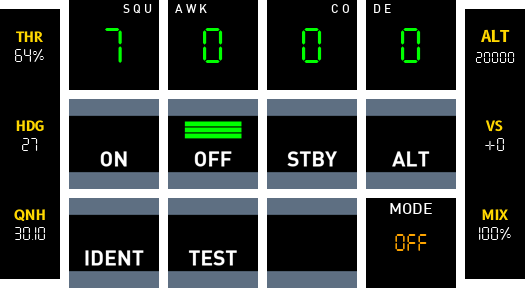
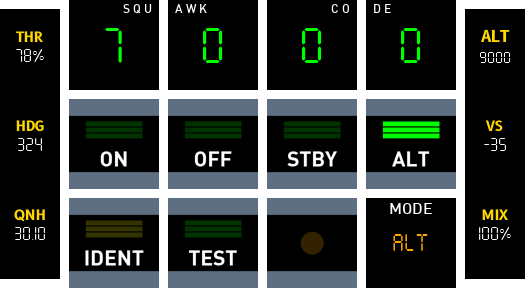
Lancair Evolution big documentation update

diff --git a/docs/decks/lancair-evolution.md b/docs/decks/lancair-evolution.md
@@ -12,37 +12,52 @@ icon: material/airplane
 ### Home
 ![](../assets/images/lancair-evolution/home.png){ :width="200" }
 
+Home page can be accessed via button e0 on the Loupedeck Live (button without a number).
+
 ### PFI
 ![](../assets/images/lancair-evolution/pfi.png){ :width="200" }
 
-Central to this page is data you would consider primary flight instruments.
-The **speed**, **bearing**, **altitude** and **vertical speed** fill the first row.
+**Primary Flight Instrument Page** displays speed (in knots), heading, altitude and vertical speed.
 
-The second row consists of engine data in a more compact form than that found in the engine page.
+Fuel quantity for left and right tanks in gallons.
 
-The third row consists of:
+Wind data as is displayed by G1000 is provided (as 4 vectors, headwind, tailwind and left/right crosswinds).
 
-- Fuel duration (a calculation of time remaining based on fuel flow and fuel quantity).
-- Caution annunciators.
-- Warning annunciators.
-- Information on the next waypoint in flight plan.
+The gear annunciator closely resembles the display on the Lancair Evolution. Gear up shows as dimmed green dots, when gear is down these will change to bright green.
+
+The flaps button is displayed as a switch.
+
+**Fuel duration** (a calculation of time remaining based on fuel flow and fuel quantity).
+
+Caution/Warning annunciators.
+
+Information on the next waypoint in flight plan. This now includes the actual waypoint name.
 
 ### SWITCHES
 ![](../assets/images/lancair-evolution/switches.png){ :width="100" }
 ![](../assets/images/lancair-evolution/switches2.png){ :width="100" }
 
+Switches is spread across two pages.
+
 Primarily "Battery and Electrical Panel", Ignition, Fuel Pump and Fuel tank selector functions.
+
 The second page covers lights and icing switches. 
+
+### AUDIO PANEL
+ 
+![](../assets/images/lancair-evolution/audiopanel.png){ :width="100" }
+
+Provides a close replica of the audio panel (Garmin GMA-1347) on the Lancair Evolution.
 
 ### FCU
 ![](../assets/images/lancair-evolution/fcu.png){ :width="200" }
 
 Functions for TS Sorceror autopilot module. 
 
-### GCU-478
-![](../assets/images/lancair-evolution/gcu478.png){ :width="200" }
+### G1000
+![](../assets/images/lancair-evolution/g1000.png){ :width="200" }
 
-Though most of these functions should work, it will be updated to relflect G1000 functions.
+G1000 page adapted from GCU-478 page (work in progress).
 
 ### RADIO
 ![](../assets/images/lancair-evolution/radio.png){ :width="200" }
@@ -52,11 +67,19 @@ COM1/COM2, NAV1/NAV2, ADF and XPDR functions.
 ### ENGINE
 ![](../assets/images/lancair-evolution/engine.png){ :width="200" }
 
+Provides a close replica of the G1000 MFD (Multi Function Display) EIS (Engine Indication System). See https://x-plane.com/manuals/G1000_Manual.pdf page 54.
+
+The configuration for reference: Configuration 4, Single-Engine Turboprop, Lancair Evolution and similar.  
+
 ### PEDESTAL
 ![](../assets/images/lancair-evolution/pedestal.png){ :width="200" }
 
+Intended for flaps, gear, brakes and other functions usually found in pedestal area.
+
 ### TRANSPONDER
 ![](../assets/images/lancair-evolution/transponder.png){ :width="200" }
+
+Dedicated transponder page (transponder mode and id functions can also be found in radio page).
 
 ### WEATHER
 ![](../assets/images/lancair-evolution/weather.png){ :width="200" }
